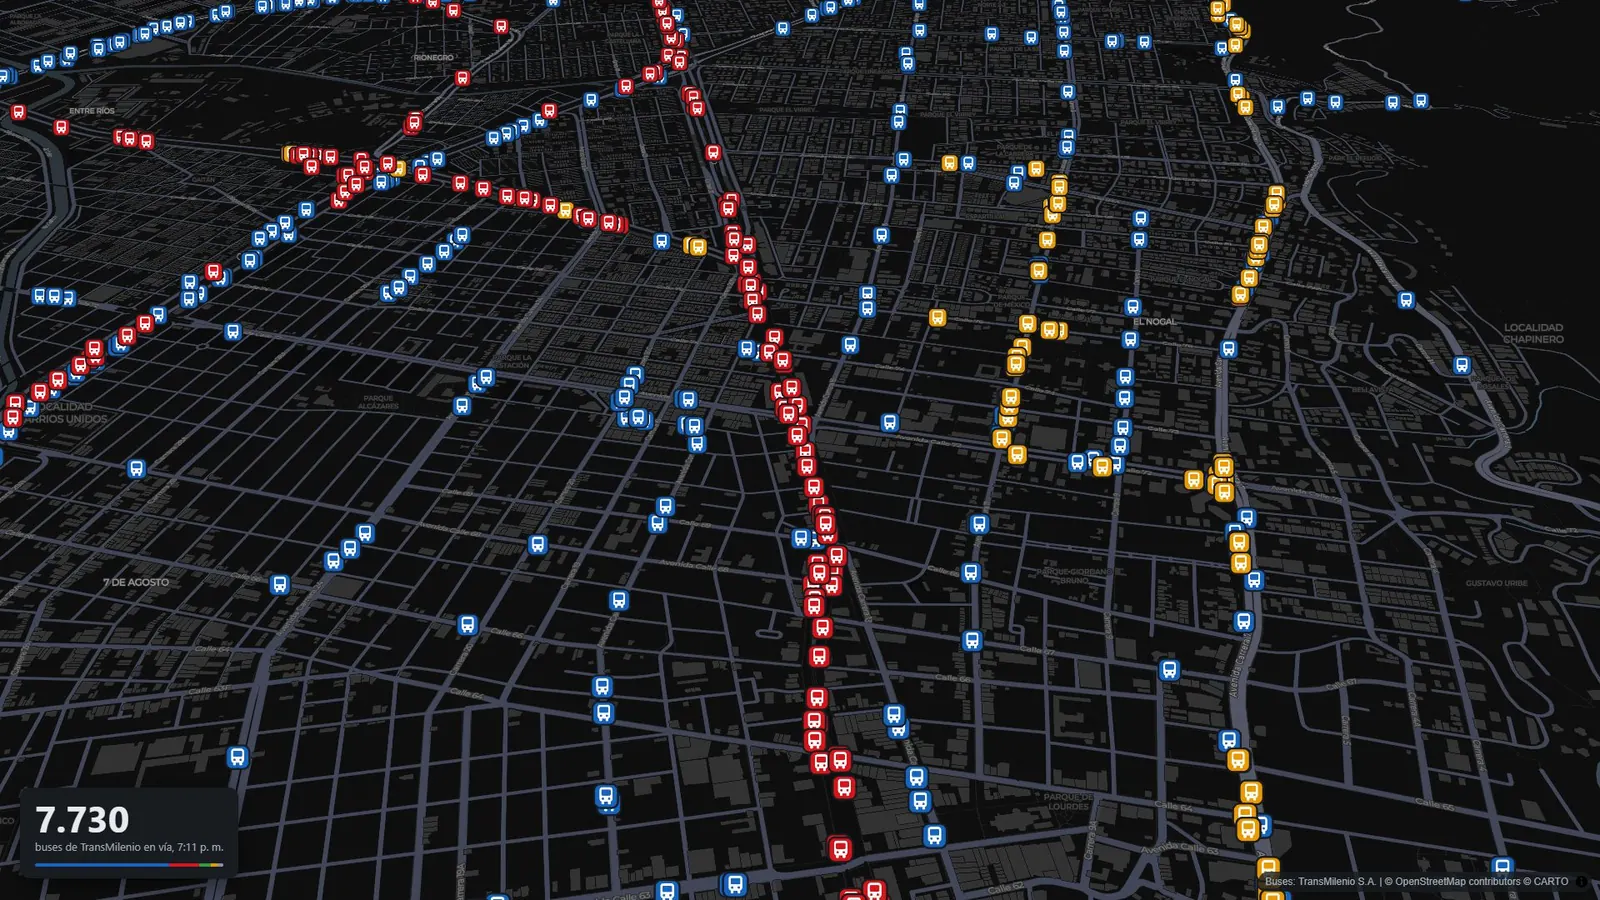
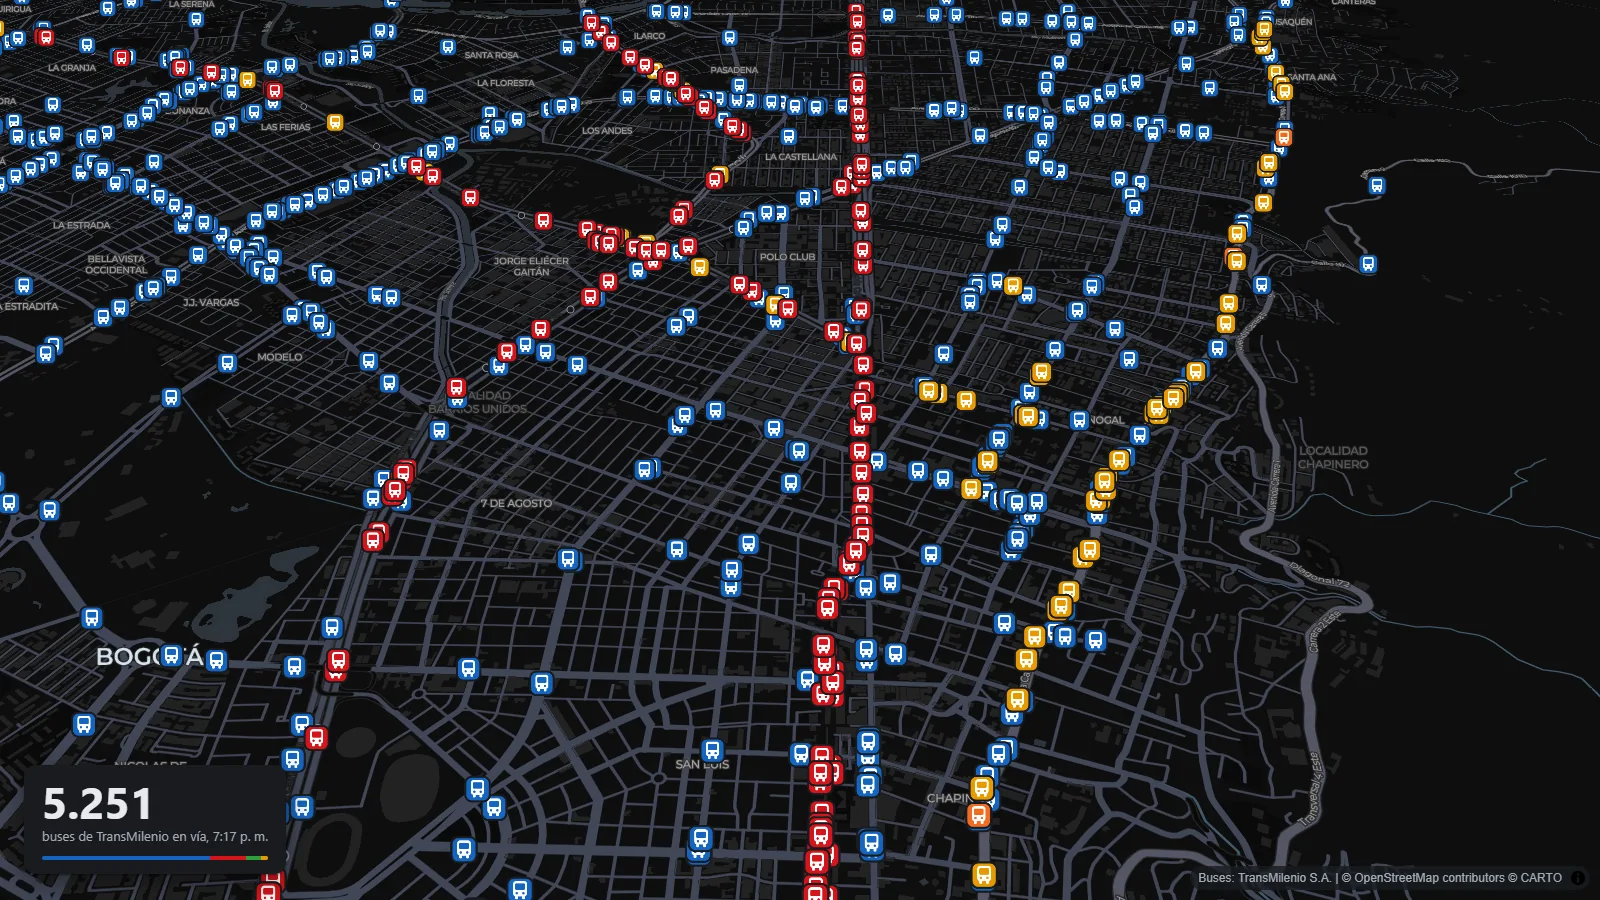
Video nuevo con voz y musica, grabado en vivo el 10-nov en hora pico
La portada del README tambien sale de esa grabacion (5.226 buses, 7:06 p. m.).

diff --git a/README.md b/README.md
@@ -11,10 +11,11 @@ verlos en el navegador. Corre en tu computador y no pide API key ni registro.
 
 ![Buses de TransMilenio sobre el mapa de Bogotá, de noche, alrededor de la Calle 72](https://raw.githubusercontent.com/PRestrepo2312/transmilenio-mcp/main/docs/img/portada.webp)
 
-Un recorrido de 50 segundos: la flota completa, una estación, un bus, lo programado contra lo
-real y dos preguntas a Claude.
+Un minuto con sonido, grabado en vivo el martes 10 de noviembre a las 7:18 p. m.: la flota
+completa, una estación, un bus, lo programado contra lo real, los viajes cancelados y dos
+preguntas a Claude.
 
-https://github.com/user-attachments/assets/f2b6dca3-eee6-486f-959b-6c7155d7b6c1
+https://github.com/user-attachments/assets/7a694c14-81cf-42f5-8b0b-6c298049341b
 
 ```
 Tú:     ¿Qué buses llegan a Calle 72 en los próximos 5 minutos?
